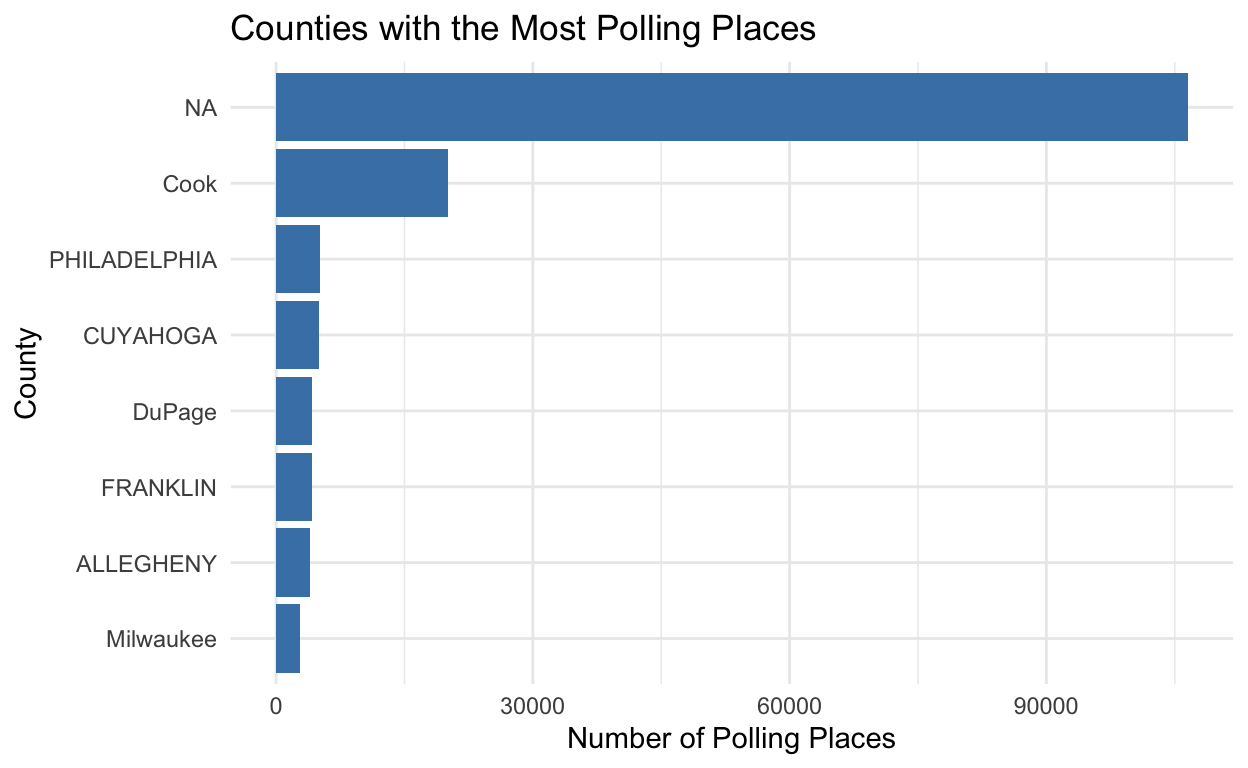
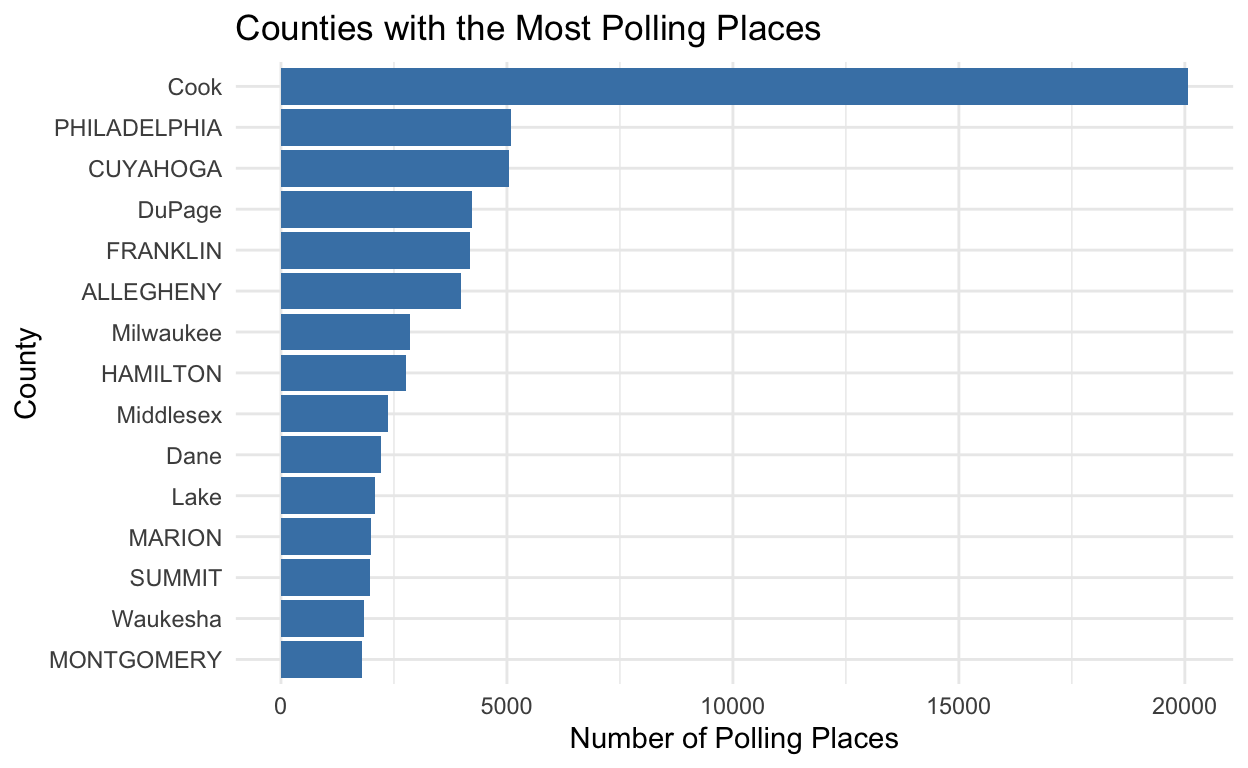
Code fix for chart

diff --git a/index.html b/index.html
@@ -1676,23 +1676,15 @@ code span.wa { color: #5e5e5e; font-style: italic; } /* Warning */
 <div class="layout-chunk" data-layout="l-body">
 <div class="sourceCode">
 <pre class="sourceCode r"><code class="sourceCode r"><span><span class='va'>polling_county</span> <span class='op'>&lt;-</span> <span class='va'>polling_places</span> <span class='op'>|&gt;</span></span>
+<span>  <span class='fu'><a href='https://dplyr.tidyverse.org/reference/filter.html'>filter</a></span><span class='op'>(</span><span class='op'>!</span><span class='fu'><a href='https://rdrr.io/r/base/NA.html'>is.na</a></span><span class='op'>(</span><span class='va'>county_name</span><span class='op'>)</span><span class='op'>)</span> <span class='op'>|&gt;</span></span>
 <span>  <span class='fu'><a href='https://dplyr.tidyverse.org/reference/group_by.html'>group_by</a></span><span class='op'>(</span><span class='va'>state</span>, <span class='va'>county_name</span><span class='op'>)</span> <span class='op'>|&gt;</span></span>
 <span>  <span class='fu'><a href='https://dplyr.tidyverse.org/reference/summarise.html'>summarize</a></span><span class='op'>(</span>polling_places <span class='op'>=</span> <span class='fu'><a href='https://dplyr.tidyverse.org/reference/context.html'>n</a></span><span class='op'>(</span><span class='op'>)</span>, .groups <span class='op'>=</span> <span class='st'>"drop"</span><span class='op'>)</span></span>
 <span></span>
+<span><span class='va'>top_counties</span> <span class='op'>&lt;-</span> <span class='va'>polling_county</span> <span class='op'><a href='https://magrittr.tidyverse.org/reference/pipe.html'>%&gt;%</a></span></span>
+<span>  <span class='fu'><a href='https://dplyr.tidyverse.org/reference/arrange.html'>arrange</a></span><span class='op'>(</span><span class='fu'><a href='https://dplyr.tidyverse.org/reference/desc.html'>desc</a></span><span class='op'>(</span><span class='va'>polling_places</span><span class='op'>)</span><span class='op'>)</span> <span class='op'><a href='https://magrittr.tidyverse.org/reference/pipe.html'>%&gt;%</a></span></span>
+<span>  <span class='fu'><a href='https://dplyr.tidyverse.org/reference/slice.html'>slice</a></span><span class='op'>(</span><span class='fl'>1</span><span class='op'>:</span><span class='fl'>15</span><span class='op'>)</span></span>
 <span></span>
-<span><span class='fu'><a href='https://rdrr.io/r/utils/head.html'>head</a></span><span class='op'>(</span><span class='va'>polling_county</span><span class='op'>)</span></span></code></pre>
-</div>
-<pre><code># A tibble: 6 × 3
-  state county_name polling_places
-  &lt;chr&gt; &lt;chr&gt;                &lt;int&gt;
-1 AK    &lt;NA&gt;                  2025
-2 AL    AUTAUGA                 19
-3 AL    BALDWIN                 50
-4 AL    BARBOUR                 16
-5 AL    BIBB                     8
-6 AL    BLOUNT                  25</code></pre>
-<div class="sourceCode">
-<pre class="sourceCode r"><code class="sourceCode r"><span><span class='fu'><a href='https://ggplot2.tidyverse.org/reference/ggplot.html'>ggplot</a></span><span class='op'>(</span><span class='va'>top_counties</span>, <span class='fu'><a href='https://ggplot2.tidyverse.org/reference/aes.html'>aes</a></span><span class='op'>(</span>x <span class='op'>=</span> <span class='fu'><a href='https://rdrr.io/r/stats/reorder.factor.html'>reorder</a></span><span class='op'>(</span><span class='va'>county_name</span>, <span class='va'>polling_places</span><span class='op'>)</span>,</span>
+<span><span class='fu'><a href='https://ggplot2.tidyverse.org/reference/ggplot.html'>ggplot</a></span><span class='op'>(</span><span class='va'>top_counties</span>, <span class='fu'><a href='https://ggplot2.tidyverse.org/reference/aes.html'>aes</a></span><span class='op'>(</span>x <span class='op'>=</span> <span class='fu'><a href='https://rdrr.io/r/stats/reorder.factor.html'>reorder</a></span><span class='op'>(</span><span class='va'>county_name</span>, <span class='va'>polling_places</span><span class='op'>)</span>,</span>
 <span>                         y <span class='op'>=</span> <span class='va'>polling_places</span><span class='op'>)</span><span class='op'>)</span> <span class='op'>+</span></span>
 <span>  <span class='fu'><a href='https://ggplot2.tidyverse.org/reference/geom_bar.html'>geom_col</a></span><span class='op'>(</span>fill <span class='op'>=</span> <span class='st'>"steelblue"</span><span class='op'>)</span> <span class='op'>+</span></span>
 <span>  <span class='fu'><a href='https://ggplot2.tidyverse.org/reference/coord_flip.html'>coord_flip</a></span><span class='op'>(</span><span class='op'>)</span> <span class='op'>+</span></span>
@@ -1705,7 +1697,7 @@ code span.wa { color: #5e5e5e; font-style: italic; } /* Warning */
 </div>
 <p><img src="index_files/figure-html5/unnamed-chunk-6-1.png" alt="" width="624" /></p>
 </div>
-<div class="sourceCode" id="cb7"><pre class="sourceCode r distill-force-highlighting-css"><code class="sourceCode r"></code></pre></div>
+<div class="sourceCode" id="cb6"><pre class="sourceCode r distill-force-highlighting-css"><code class="sourceCode r"></code></pre></div>
 <!--radix_placeholder_article_footer-->
 <!--/radix_placeholder_article_footer-->
 </div>
